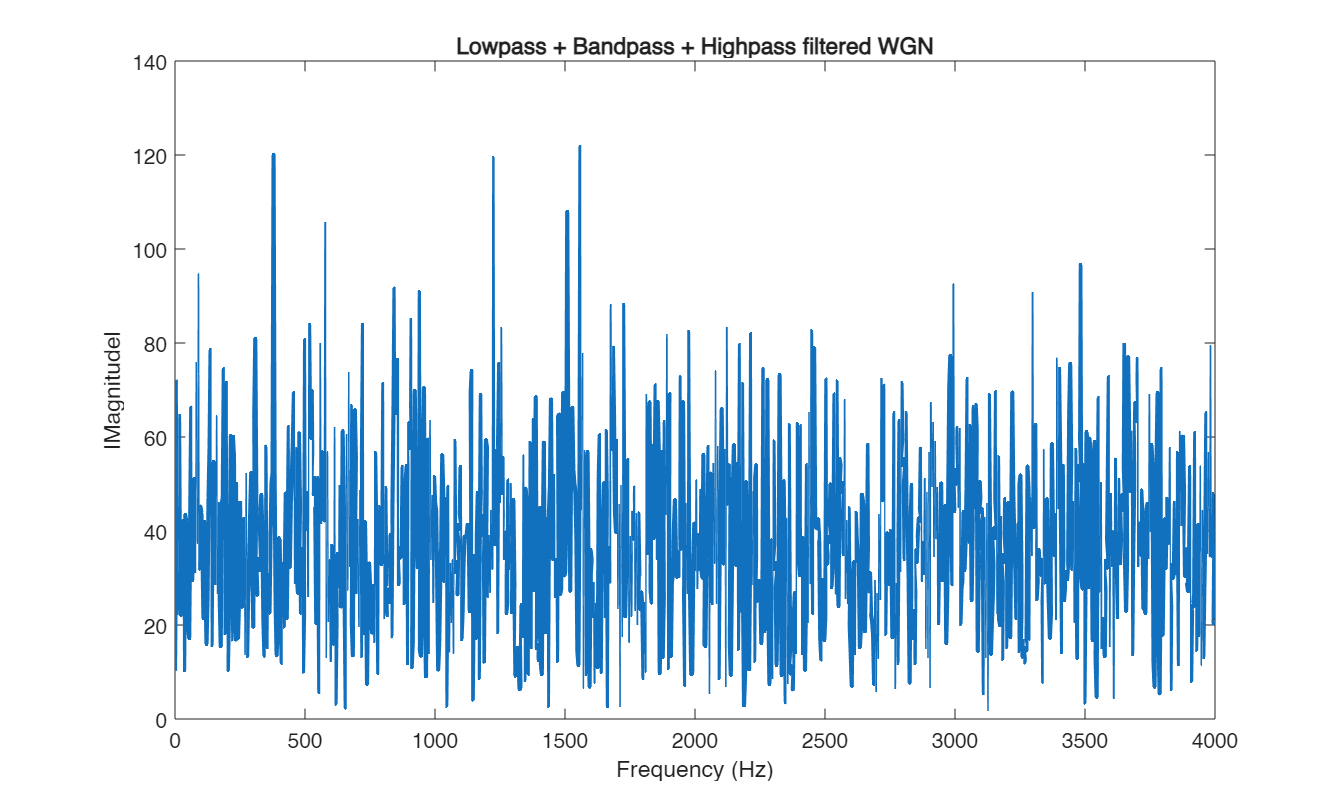
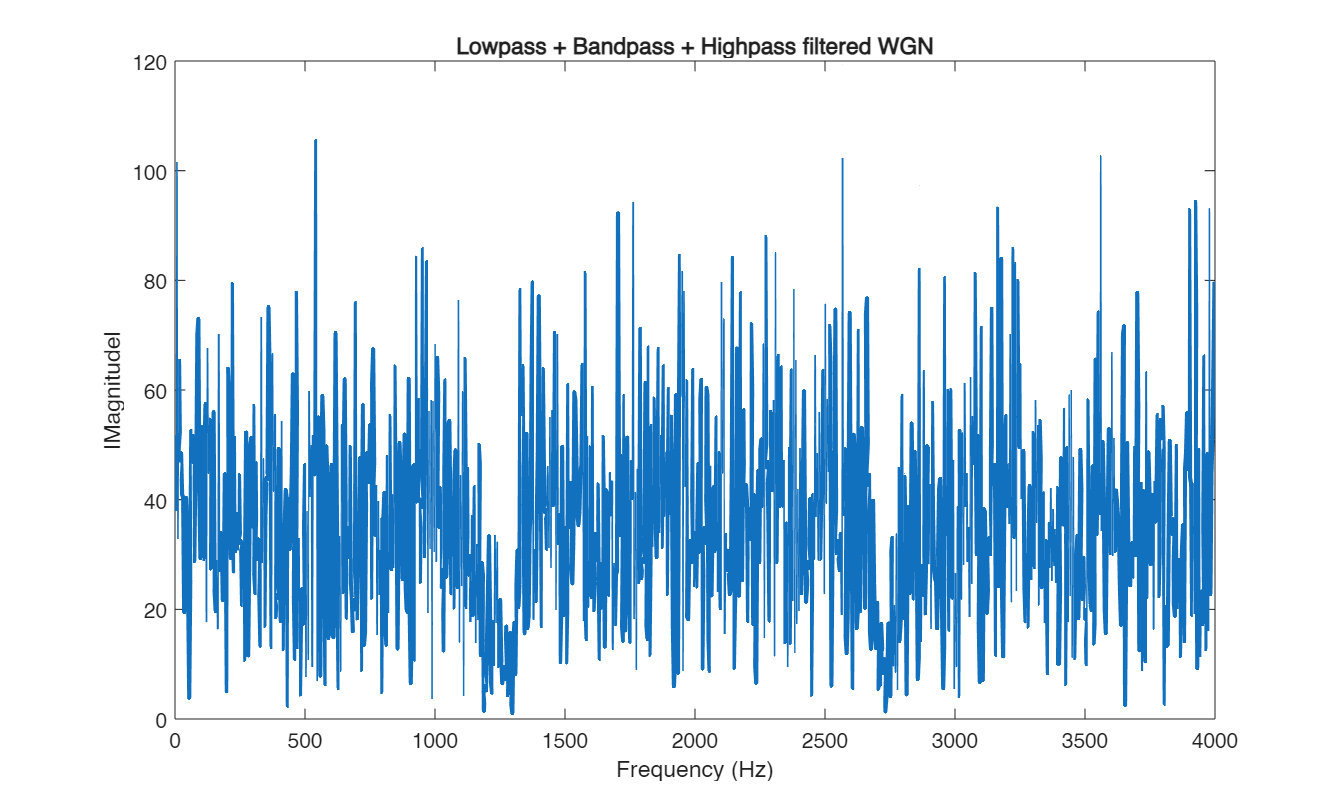
update filters and code optimisation

Changed region(s): [[0.0916, 0.1856, 0.9159, 0.8663], [0.0916, 0.1856, 0.1526, 0.2166], [0.0916, 0.0619, 0.1221, 0.0928]]

diff --git a/MiniProject/Main.c b/MiniProject/Main.c
@@ -51,7 +51,26 @@ void audioHWI(void){
         //write_audio_sample(s16);
 
         if(!dips[1]){
-            filters();
+            update_array(x,buffer[ind]);
+
+            float result = 0.0;
+            if(!dips[5]){
+                result += IIR(a_iir_bp,yb,b_iir_bp);
+            }
+
+            if(!dips[6]){
+                result += IIR(a_iir_lp,yl,b_iir_lp);
+            }
+
+            if(!dips[7]){
+                result += IIR(a_iir_hp,yh,b_iir_hp);
+            }
+
+            //sum filter results
+            //printf("%d\n\n",result);
+            write_audio_sample(result);
+            //obuffer[ind>>4] = result;
+            //printf("%d\n",ind<<4);
             //write_audio_sample(s16);
         }
         else{
@@ -81,38 +100,14 @@ void LED(){
 }
 
 
-void filters(){
-    update_array(x,buffer[ind]);
-
-    float result = 0.0;
-    if(!dips[5]){
-        result += IIR(a_iir_bp,yb,b_iir_bp);
-    }
-
-    if(!dips[6]){
-        result += IIR(a_iir_lp,yl,b_iir_lp);
-    }
-
-    if(!dips[7]){
-        result += IIR(a_iir_hp,yh,b_iir_hp);
-    }
-
-    //sum filter results
-    //printf("%d\n\n",result);
-    write_audio_sample(result);
-    //obuffer[ind>>4] = result;
-    //printf("%d\n",ind<<4);
-}
-
-
 //TODO unroll
 float IIR(float b1[], float y[],float b2[]){
     int i;
     float out = 0.0;
+
+    //#pragma UNROLL(N_IIR_BP);
     for(i = 0; i<N_IIR_BP; i++){
         out += x[i]*b1[i];
-    }
-    for(i = 0;i<N_IIR_BP; i++){
         out += y[i]*b2[i];
     }
     update_array(y,out);

diff --git a/MiniProject/IIR_coeffs/lp.h b/MiniProject/IIR_coeffs/lp.h
@@ -1,5 +1,5 @@
-#define N_IIR_LP 11
+#define N_IIR_LP 8
 
-float b_iir_lp[] = { 0.0064437f, -0.0103002f, 0.0272396f, -0.0241017f, 0.0396598f, -0.0260140f, 0.0396598f, -0.0241017f, 0.0272396f, -0.0103002f, 0.0064437f };
+float b_iir_lp[] = { 0.0076358f, 0.0022412f, 0.0159546f, 0.0116732f, 0.0116732f, 0.0159546f, 0.0022412f, 0.0076358f };
 
-float a_iir_lp[] = { 1.0000000f, -5.7725105f, 17.4691620f, -34.7196236f, 49.5598679f, -52.6145287f, 41.9488792f, -24.7834282f, 10.4176931f, -2.8328958f, 0.3855850f };
+float a_iir_lp[] = { 1.0000000f, -4.0731125f, 8.5964384f, -11.3703165f, 10.0828848f, -5.9467835f, 2.1695290f, -0.3836300f };

diff --git a/MiniProject/IIR_coeffs/hp.h b/MiniProject/IIR_coeffs/hp.h
@@ -1,5 +1,5 @@
-#define N_IIR_HP 11
+#define N_IIR_HP 8
 
-float b_iir_hp[] = { 0.0064437f, 0.0103002f, 0.0272396f, 0.0241017f, 0.0396598f, 0.0260140f, 0.0396598f, 0.0241017f, 0.0272396f, 0.0103002f, 0.0064437f };
+float b_iir_hp[] = { 0.0076358f, -0.0022412f, 0.0159546f, -0.0116732f, 0.0116732f, -0.0159546f, 0.0022412f, -0.0076358f };
 
-float a_iir_hp[] = { 1.0000000f, 5.7725105f, 17.4691620f, 34.7196236f, 49.5598679f, 52.6145287f, 41.9488792f, 24.7834282f, 10.4176931f, 2.8328958f, 0.3855850f };
+float a_iir_hp[] = { 1.0000000f, 4.0731125f, 8.5964384f, 11.3703165f, 10.0828848f, 5.9467835f, 2.1695290f, 0.3836300f };

diff --git a/MiniProject/IIR_coeffs/bp.h b/MiniProject/IIR_coeffs/bp.h
@@ -1,5 +1,5 @@
-#define N_IIR_BP 11
+#define N_IIR_BP 7
 
-float b_iir_bp[] = { 0.0121254f, 0.0000000f, -0.0220085f, -0.0000000f, 0.0342294f, -0.0000000f, -0.0342294f, 0.0000000f, 0.0220085f, -0.0000000f, -0.0121254f };
+float b_iir_bp[] = { 0.0503269f, 0.0000000f, -0.1344112f, 0.0000000f, 0.1344112f, -0.0000000f, -0.0503269f };
 
-float a_iir_bp[] = { 1.0000000f, -0.0000000f, 2.7960854f, -0.0000000f, 4.0581827f, -0.0000000f, 3.4106748f, -0.0000000f, 1.6641582f, -0.0000000f, 0.3788541f };
+float a_iir_bp[] = { 1.0000000f, -0.0000000f, 1.3798802f, -0.0000000f, 1.1092451f, 0.0000000f, 0.3598888f };

diff --git a/assign.m b/assign.m
@@ -12,7 +12,7 @@ bandpass_f2 = fs/3;
 highpass_f1 = fs/3;
 highpass_f2 = fs/2;
 
-order = 10;
+order = 7;
 
 % elliptic filters for all why not
 % lowpass
@@ -23,7 +23,7 @@ lpfilt = designfilt("lowpassiir", ...
     SampleRate=fs);
 % bandpass
 bpfilt = designfilt("bandpassiir", ...
-    FilterOrder=order, ...
+    FilterOrder=order-1, ...
     PassbandFrequency1=bandpass_f1, ...
     PassbandFrequency2=bandpass_f2, ...
     StopbandAttenuation1=60, PassbandRipple=1, StopbandAttenuation2=60, ...
